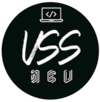
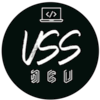
v1.4
changes at logos, header and style

diff --git a/index.html b/index.html
@@ -1,5 +1,5 @@
 <!DOCTYPE html>
-<html>
+<html lang='pt-BR'>
 
 <head>
     <meta charset="UTF-8">
@@ -15,33 +15,33 @@
 </head>
 
 <body>
-    <!-- Ocultando o código por enquanto...             
-    <svg id="cursor" width="64" height="64" xmlns="http://www.w3.org/2000/svg" style="top: 67.6px; left: 78px;">
-        <circle id="cursor_circle" stroke="rgba(128, 128, 128, 0.7)" stroke-width="3" cy="32" cx="32" r="30" fill="transparent"></circle>
-    </svg> -->
     <header id="header">
-        <a href="/"> <img src="images\v_icon.png" width="75" height="75"> </a>
-        <h1>Vinícius Silva Santos</h1>
+        <a href="/"> <img src="images\logo_main_low.png"> </a>
         <nav>
             <ul>
                 <li><a href="#about">About me</a></li>
                 <li><a href="#projects">Projects</a></li>
                 <li><a href="#contact">Contact</a></li>
             </ul>
-        </nav>    
+        </nav>
     </header>
 
     <section id="about">
-        <h1 class="text-6xl mb-3 font-bold">Vinícius Silva Santos</h1>
-        <h3 class="text-lg mb-6 font-semibold">FULLSTACK DEVELOPER, BRAZIL</h3>
+        <h1 >Vinícius Silva Santos</h1>
+        <h2 >FULLSTACK DEVELOPER, BRAZIL</h2>
         <p>Sou um desenvolvedor de software apaixonado e dedicado em busca de uma posição que me permita aplicar minha
             experiência em programação e habilidades técnicas em computação para contribuir no desenvolvimento de
             soluções inovadoras. Meu objetivo é participar de uma equipe dinâmica em uma empresa de tecnologia, onde
             possa trabalhar em projetos desafiadores e aprimorar minhas habilidades, enquanto colaboro para criar
             produtos de alta qualidade que atendam às necessidades dos usuários.</p>
-            <button class="curriculo">
-                <a href="https://drive.google.com/file/d/1nLzheDwt0G-sLYj2nsO0p8Nnom-umkMm/view?usp=drive_link" target="_blank">Currículo PDF</a>
-            </button>
+        <button class="curriculo">
+            <a href="https://drive.google.com/file/d/1nLzheDwt0G-sLYj2nsO0p8Nnom-umkMm/view?usp=drive_link"
+                target="_blank">Currículo PDF</a>
+        </button>
+    </section>
+
+    <section id="about-me">
+        <h2>Sobre mim...</h2>
     </section>
 
     <section id="projects">
@@ -56,7 +56,6 @@
             <p>Uma descrição do Projeto 2.</p>
             <a href="#">Ver Projeto</a>
         </div>
-        <!-- Adicione mais projetos conforme necessário -->
     </section>
 
     <section id="contact">
@@ -67,7 +66,7 @@
     <footer>
         <p>&copy; Copyright | Projeto para portfólio web criado por Vinícius Silva Santos | 2023</p>
     </footer>
-    
+
     <script type="module" src="scripts\cursor.js"></script>
     <script type="module" src="scripts\utils.js"></script>
 </body>

diff --git a/styles/main.css b/styles/main.css
@@ -1,34 +1,10 @@
-/* Local para adicionar fontes novas */
+/* Adicionar fontes */
 @font-face {
     font-family: 'Checkbook';
     src: url('fonts\\Checkbook-1K2.ttf') format('truetype');
     font-family: 'Quicksand';
     src: url('fonts\\QuicksandbookRegular-0gW4.otf') format('truetype');
 }  
-
-/*-- CORES: ffffff-d8f3dc-95d5b2-52b788-38805f-2d6a4f-1b4332-081c15-04100c */
-
-/* Reset de estilos para garantir uma base limpa */
-*{
-    margin: 0;
-    padding: 0;
-    list-style: none;
-    text-decoration: none;
-    font-family: 'Quicksand', sans-serif;
-    color: #D8F3DC;
-}
-
-body {
-    background-color: #1B4332;
-    font-size: 16px;
-    line-height: 1.6; 
-}
-
-#cursor {
-    position: absolute;
-    pointer-events: none;
-    z-index: 2
-}
 
 /* Responsividade para dispositivos móveis */
 @media (max-width: 768px) {
@@ -43,4 +19,32 @@ body {
     nav li {
         margin: 10px 0;
     }
+}
+
+/*-- PALETA DE CORES: 
+    -ffffff
+    -d8f3dc
+    -95d5b2
+    -52b788
+    -38805f
+    -2d6a4f
+    -1b4332
+    -081c15
+    -04100c 
+*/
+
+/* Reset de estilos */
+*{
+    margin: 0;
+    padding: 0;
+    list-style: none;
+    text-decoration: none;
+    font-family: 'Quicksand', sans-serif;
+    color: #D8F3DC;
+    line-height: 1.5; 
+}
+
+body {
+    background-color: #1B4332;
+    font-size: 16px;
 }

diff --git a/styles/header.css b/styles/header.css
@@ -1,36 +1,34 @@
 #header {
     background-color: #04100C;
-    padding: 12px;
+    padding: 8px 48px;
     display: flex;
+    top: 0;
     align-items: center;
     justify-content: space-between;
     position: sticky;
-    top: 0;
-    width: 100%;
+    text-align: center;
+    font-size: 24px;
 }
 
-header h1 {
-    font-size: 36px;
+#header img { 
+    width: auto;
+    height: 60px;
+    border-radius: 10px;
 }
 
-header p {
-    font-size: 18px;
+li:hover{
+    background-color: #1b4332;
 }
 
 nav {
-    text-align: center;
-    padding: 10px 0;
 }
 
 nav ul {
     display: flex;
-    justify-content: center;
 }
 
 nav li {
-    margin: 0 15px;
-}
-
-nav a {
-    font-size: 20px;
+    margin: 4px;
+    padding: 12px;
+    border-radius: 15px;
 }

diff --git a/styles/sections.css b/styles/sections.css
@@ -1,23 +1,25 @@
-
 section {
-    padding: 50px;
+    padding: 48px;
 }
 
-h2 {
-    font-size: 24px;
+#about {
+}
+
+#about button{
+    border-radius: 10px;
+    font-size: medium;
+    color: #52b788;
+    border-color: #52b788;
+    background-color: #04100c;
+    padding: 10px;
+}
+
+#about button:hover{
+    color: #04100c;
+    border-color: #04100c;
+    background-color: #38805f;
 }
 
 .projeto {
     margin: 30px 0;
-}
-
-.projeto h3 {
-    font-size: 20px;
-}
-
-.projeto p {
-    font-size: 16px;
-}
-
-.projeto a {
 }
